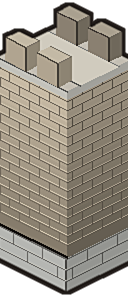
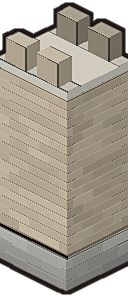
城墙/城门贴图精修美化：砖块逐块确定性明度抖动填色（锚定绝对格栅跨段同相位）、条石基座贴地环境光遮蔽、墙面确定性风雨渍、垛口顶缘倒角高光、宽门楼城台风雨渍；新增 modv2 本地构建脚本 _local_build.py（临时目录补丁路径重出贴图）；贴图尺寸/锚点与旧版完全一致，回归 67/67

diff --git a/shanhai/assets_src/tools/modv2/citybuild.py b/shanhai/assets_src/tools/modv2/citybuild.py
@@ -129,42 +129,95 @@ def iso_box(d, u0, u1, v0, v1, z0, z1, cf, cs, ct, edge=True):
         d.line([S(u1, v0, z1), S(u1, v1, z1)], fill=mix(ct, DARK, 0.42), width=1)
 
 
-def brick_v(d, u0, u1, v, z0, z1, col, ch=9.0, cw=0.62, seed=0):
-    """v=常数 立面的砖缝：水平砖行 + 错缝竖缝。
-    竖缝落在绝对格栅上（锚在 U0），因此任意长度切段后拼接，砖缝相位不变。"""
+def _brick_tone(col, row, ua, ao, ao_h):
+    """单砖确定性色调：明度抖动 + 可选贴地环境光遮蔽。锚定绝对格栅，跨段同相位。"""
+    h = ((row * 73856093) ^ (int(round(ua * 31)) * 19349663)) & 0xFFFFFFFF
+    t = (h % 997) / 997.0
+    bc = mix(mix(col, DARK, 0.085 * t), CREAM, 0.085 * (1.0 - t))
+    if ao_h > 0:
+        bc = mix(bc, DARK, 0.20 * max(0.0, 1.0 - min(ao, ao_h) / ao_h))
+    return bc
+
+
+def brick_v(d, u0, u1, v, z0, z1, col, ch=9.0, cw=0.62, seed=0, ao_h=0.0):
+    """v=常数 立面砖：逐砖填色（确定性抖动）+ 错缝 + 砖缝阴影/高光。
+    竖缝落在绝对格栅上（锚在 U0），任意长度切段后拼接，砖缝与抖动相位不变。
+    ao_h>0 时向 z0 方向叠加环境光遮蔽（越贴地越暗）。"""
     dark = mix(col, DARK, 0.42)
     light = mix(col, CREAM, 0.26)
-    k = 0
+    row = int(math.floor(z0 / ch))
     z = z0 + ch
     while z < z1:
+        za = max(z - ch, z0)
+        zb = min(z, z1)
+        off = (cw / 2.0) if (row + seed) % 2 else 0.0
+        m0 = int(math.floor((u0 - off - U0) / cw)) + 1
+        ua = u0
+        u = U0 + m0 * cw + off
+        while ua < u1 - 1e-6:
+            ub = min(u, u1)
+            bc = _brick_tone(col, row, ua, za, ao_h)
+            if ub - ua > 0.02 and zb - za > 0.5:
+                quad(d, S(ua, v, za), eu(ub - ua), ez(zb - za), bc)
+                d.line([S(ua, v, zb - 0.9), S(ub, v, zb - 0.9)],
+                       fill=mix(bc, CREAM, 0.22), width=1)
+            ua = ub
+            u += cw
         d.line([S(u0, v, z), S(u1, v, z)], fill=dark, width=1)
-        d.line([S(u0, v, z + 1.2), S(u1, v, z + 1.2)], fill=light, width=1)
-        off = (cw / 2.0) if (k + seed) % 2 else 0.0
-        m = int(math.floor((u0 - off - U0) / cw)) + 1
-        u = U0 + m * cw + off
+        u = U0 + m0 * cw + off
         while u < u1:
             d.line([S(u, v, z), S(u, v, z + ch)], fill=dark, width=1)
             u += cw
-        k += 1
+        d.line([S(u0, v, z + 1.2), S(u1, v, z + 1.2)], fill=light, width=1)
+        row += 1
         z += ch
 
 
-def brick_u(d, u, v0, v1, z0, z1, col, ch=9.0, cw=0.62, seed=0):
+def brick_u(d, u, v0, v1, z0, z1, col, ch=9.0, cw=0.62, seed=0, ao_h=0.0):
+    """u=常数 侧脸砖：与 brick_v 同一套逐砖填色/抖动/AO。"""
     dark = mix(col, DARK, 0.46)
     light = mix(col, CREAM, 0.14)
-    k = 0
+    row = int(math.floor(z0 / ch))
     z = z0 + ch
     while z < z1:
+        za = max(z - ch, z0)
+        zb = min(z, z1)
+        off = (cw / 2.0) if (row + seed) % 2 else 0.0
+        m0 = int(math.floor((v0 - off - V0) / cw)) + 1
+        va = v0
+        v = V0 + m0 * cw + off
+        while va < v1 - 1e-6:
+            vb = min(v, v1)
+            bc = _brick_tone(col, row, va, za, ao_h)
+            if vb - va > 0.02 and zb - za > 0.5:
+                quad(d, S(u, va, za), ev(vb - va), ez(zb - za), bc)
+                d.line([S(u, va, zb - 0.9), S(u, vb, zb - 0.9)],
+                       fill=mix(bc, CREAM, 0.16), width=1)
+            va = vb
+            v += cw
         d.line([S(u, v0, z), S(u, v1, z)], fill=dark, width=1)
-        d.line([S(u, v0, z + 1.2), S(u, v1, z + 1.2)], fill=light, width=1)
-        off = (cw / 2.0) if (k + seed) % 2 else 0.0
-        m = int(math.floor((v0 - off - V0) / cw)) + 1
-        v = V0 + m * cw + off
+        v = V0 + m0 * cw + off
         while v < v1:
             d.line([S(u, v, z), S(u, v, z + ch)], fill=dark, width=1)
             v += cw
-        k += 1
+        d.line([S(u, v0, z + 1.2), S(u, v1, z + 1.2)], fill=light, width=1)
+        row += 1
         z += ch
+
+
+def weather_streaks(d, u0, u1, v, z_top, z_bot, col, seed=0, n=5):
+    """确定性竖向风雨渍：细窄暗带自上而下、长短错落。锚定绝对 u，跨段同相位。"""
+    for k in range(n):
+        h = ((seed * 2654435761) ^ (k * 40503 + 97)) & 0xFFFFFFFF
+        t0 = (h % 997) / 997.0
+        t1 = ((h >> 10) % 997) / 997.0
+        ua = u0 + (u1 - u0) * ((k + 0.15 + 0.7 * t0) / n)
+        wu = min(0.14 + 0.12 * t1, max(0.06, (u1 - u0) / n * 0.8), u1 - ua)
+        zt = z_top - (z_top - z_bot) * (0.08 + 0.10 * t0)
+        zb2 = max(zt - (z_top - z_bot) * (0.30 + 0.42 * t1), z_bot)
+        if zb2 - zt < 4 or u1 - ua < 0.04:
+            continue
+        quad(d, S(ua, v, zb2), eu(wu), ez(zt - zb2), mix(col, DARK, 0.075))
 
 
 def vgrad(d, u0, u1, v, z0, z1, c_bot, c_top, steps=14):
@@ -202,8 +255,12 @@ def merlons(d, axis, a0, a1, c0, c1, z0, hgt, wh=None, inner=False):
         b = a + w
         if axis == 'u':
             iso_box(d, a, b, c0, c1, z0, z0 + hgt, cf, cs, mix(cf, CREAM, 0.30))
+            d.line([S(a, c1, z0 + hgt), S(b, c1, z0 + hgt)],
+                   fill=mix(cf, CREAM, 0.42), width=1)
         else:
             iso_box(d, c0, c1, a, b, z0, z0 + hgt, cf, cs, mix(cf, CREAM, 0.30))
+            d.line([S(c0, b, z0 + hgt), S(c1, b, z0 + hgt)],
+                   fill=mix(cf, CREAM, 0.42), width=1)
 
 
 # ---------------------------------------------------------------- 直段
@@ -224,11 +281,11 @@ def build_wall(n, axis, th=2):
     # 基座
     iso_box(d, b[0], b[1], b[2], b[3], 0, BASE, STONE, STONE_S, STONE_T)
     if axis == 'u':
-        brick_v(d, b[0], b[1], b[3], 0, BASE, STONE, ch=11.0, cw=0.92)
-        brick_u(d, b[1], b[2], b[3], 0, BASE, STONE_S, ch=11.0, cw=0.92)
+        brick_v(d, b[0], b[1], b[3], 0, BASE, STONE, ch=11.0, cw=0.92, ao_h=BASE)
+        brick_u(d, b[1], b[2], b[3], 0, BASE, STONE_S, ch=11.0, cw=0.92, ao_h=BASE)
     else:
-        brick_v(d, b[0], b[1], b[3], 0, BASE, STONE, ch=11.0, cw=0.92, seed=1)
-        brick_u(d, b[1], b[2], b[3], 0, BASE, STONE_S, ch=11.0, cw=0.92, seed=1)
+        brick_v(d, b[0], b[1], b[3], 0, BASE, STONE, ch=11.0, cw=0.92, seed=1, ao_h=BASE)
+        brick_u(d, b[1], b[2], b[3], 0, BASE, STONE_S, ch=11.0, cw=0.92, seed=1, ao_h=BASE)
     d.line([S(b[0], b[3], BASE), S(b[1], b[3], BASE)], fill=mix(STONE, DARK, 0.5), width=2)
     # 墙身
     iso_box(d, eu0, eu1, ev0, ev1, BASE, WALL_TOP, WALL_C, WALL_S, WALK_C)
@@ -243,6 +300,8 @@ def build_wall(n, axis, th=2):
     else:
         brick_v(d, eu0, eu1, ev1, BASE + 3, WALL_TOP - 8, WALL_C, seed=2)
         brick_u(d, eu1, ev0, ev1, BASE + 3, WALL_TOP - 8, WALL_S, seed=3)
+    # 风雨渍：确定性竖向污痕，让墙面有岁月感
+    weather_streaks(d, eu0, eu1, ev1, WALL_TOP - 10, BASE + 10, WALL_C, seed=7 if axis == 'u' else 11)
     # 注：直段的 u=u1 面在拼接后是「接缝」，不是外棱 —— 这里不画转角亮棱/暗倒角，
     # 否则每段端头都会在接缝处留一道亮（或暗）竖线。转角厚度由 city_wall_corner 承担。
     d.line([S(eu0, ev1, BASE), S(eu1, ev1, BASE)], fill=(30, 27, 24), width=3)
@@ -290,8 +349,8 @@ def build_corner(th=2):
     u0, u1, v0, v1 = U0, U0 + th, V0, V0 + th
     L = 0.06
     iso_box(d, u0 - L, u1 + L, v0 - L, v1 + L, 0, BASE, STONE, STONE_S, STONE_T)
-    brick_v(d, u0 - L, u1 + L, v1 + L, 0, BASE, STONE, ch=11.0, cw=0.92, seed=2)
-    brick_u(d, u1 + L, v0 - L, v1 + L, 0, BASE, STONE_S, ch=11.0, cw=0.92, seed=2)
+    brick_v(d, u0 - L, u1 + L, v1 + L, 0, BASE, STONE, ch=11.0, cw=0.92, seed=2, ao_h=BASE)
+    brick_u(d, u1 + L, v0 - L, v1 + L, 0, BASE, STONE_S, ch=11.0, cw=0.92, seed=2, ao_h=BASE)
     CC = mix(WALL_C, CREAM, 0.12)
     CS = mix(WALL_S, CREAM, 0.05)
     # u 两端出血 BL 再裁回名义范围：否则 iso_box 在 u=u1 画的竖棱线、以及轮廓描边，
@@ -514,8 +573,8 @@ def build_gate():
     bu0, bu1 = u0 - B, u1 + B
     # 1 条石基座（与城台齐平，便于券门贯通到地面）
     iso_box(d, bu0, bu1, v0, v1, 0, 30, STONE, STONE_S, STONE_T)
-    brick_v(d, bu0, bu1, v1, 0, 30, STONE, ch=11.0, cw=0.92, seed=5)
-    brick_u(d, bu1, v0, v1, 0, 30, STONE_S, ch=11.0, cw=0.92, seed=5)
+    brick_v(d, bu0, bu1, v1, 0, 30, STONE, ch=11.0, cw=0.92, seed=5, ao_h=30)
+    brick_u(d, bu1, v0, v1, 0, 30, STONE_S, ch=11.0, cw=0.92, seed=5, ao_h=30)
     # 2 城台（墩台）
     iso_box(d, bu0, bu1, v0, v1, 30, GP_TOP, GATE_C, GATE_S, GATE_T)
     brick_v(d, bu0, bu1, v1, 36, GP_TOP - 12, GATE_C, ch=10.0, cw=0.54)

diff --git a/shanhai/assets_src/tools/modv2/_local_build.py b/shanhai/assets_src/tools/modv2/_local_build.py
@@ -1,0 +1,75 @@
+"""本地构建脚本：拷贝 modv2 到临时目录、修补路径、重出城墙上城门贴图。
+用法：python _local_build.py
+"""
+import os
+import shutil
+import subprocess
+import sys
+import json
+
+REPO = os.path.dirname(os.path.dirname(os.path.dirname(os.path.dirname(os.path.abspath(__file__)))))  # shanhai/
+MODV2 = os.path.dirname(os.path.abspath(__file__))
+BUILD = os.path.join(os.environ.get('TEMP', '/tmp'), 'yj_build')
+ISO_OUT = os.path.join(REPO, 'public', 'assets', 'art', 'iso')
+
+TARGETS = [
+    'city_wall_u6', 'city_wall_u2', 'city_wall_v6', 'city_wall_v2',
+    'city_wall_corner', 'city_gate_tower', 'city_gate_wide', 'city_gate_wide_v',
+]
+
+
+def main():
+    os.makedirs(BUILD, exist_ok=True)
+    os.makedirs(os.path.join(BUILD, 'assets_v2', 'modules'), exist_ok=True)
+    os.makedirs(os.path.join(BUILD, 'assets_v2', 'preview'), exist_ok=True)
+    # 拷贝脚本
+    for f in os.listdir(MODV2):
+        if f.endswith('.py'):
+            shutil.copy(os.path.join(MODV2, f), os.path.join(BUILD, f))
+    # 修补 ROOT / OUT
+    cb = open(os.path.join(BUILD, 'citybuild.py'), encoding='utf-8').read()
+    cb = cb.replace(r"ROOT = r'D:\workspace\dahuayou_web'",
+                    'ROOT = r' + repr(BUILD))
+    open(os.path.join(BUILD, 'citybuild.py'), 'w', encoding='utf-8').write(cb)
+    wg = open(os.path.join(BUILD, 'widegate.py'), encoding='utf-8').read()
+    wg = wg.replace(r"OUT = r'D:\workspace\game\xiyou01\shanhai\public\assets\art\iso'",
+                    'OUT = r' + repr(ISO_OUT))
+    open(os.path.join(BUILD, 'widegate.py'), 'w', encoding='utf-8').write(wg)
+
+    # 记录旧尺寸
+    old = {}
+    for t in TARGETS:
+        p = os.path.join(ISO_OUT, t + '.png')
+        old[t] = os.path.getsize(p) if os.path.exists(p) else 0
+
+    # 构建（citybuild 出直段/角台/旧门楼，widegate 出宽门）
+    code = 'import citybuild; citybuild.run_walls(); citybuild.run_gate(); import widegate'
+    r = subprocess.run([sys.executable, '-c', code], cwd=BUILD,
+                       capture_output=True, text=True)
+    print(r.stdout[-3000:] if r.stdout else '')
+    if r.returncode != 0:
+        print(r.stderr[-4000:])
+        sys.exit(1)
+
+    # 把直段/角台/旧门楼从 modules 拷到 iso 目录（宽门已直出）
+    mod_dir = os.path.join(BUILD, 'assets_v2', 'modules')
+    copied = []
+    for t in TARGETS:
+        src = os.path.join(mod_dir, t + '.png')
+        dst = os.path.join(ISO_OUT, t + '.png')
+        if os.path.exists(src):
+            shutil.copy(src, dst)
+            copied.append(t)
+    # 尺寸校验
+    from PIL import Image
+    ok = True
+    for t in TARGETS:
+        p = os.path.join(ISO_OUT, t + '.png')
+        if os.path.exists(p):
+            im = Image.open(p)
+            print(f'{t}: {im.size[0]}x{im.size[1]}  bytes {old[t]} -> {os.path.getsize(p)}')
+    print('copied:', copied)
+
+
+if __name__ == '__main__':
+    main()

diff --git a/shanhai/assets_src/tools/modv2/widegate.py b/shanhai/assets_src/tools/modv2/widegate.py
@@ -41,12 +41,13 @@ def _podium(d, bu0, bu1, v0, v1, front_axis):
     B = cb.BL
     # 1 条石基座（与城台齐平，券门贯通到地面）
     cb.iso_box(d, bu0, bu1, v0, v1, 0, 30, cb.STONE, cb.STONE_S, cb.STONE_T)
-    cb.brick_v(d, bu0, bu1, v1, 0, 30, cb.STONE, ch=11.0, cw=0.92, seed=5)
-    cb.brick_u(d, bu1, v0, v1, 0, 30, cb.STONE_S, ch=11.0, cw=0.92, seed=5)
+    cb.brick_v(d, bu0, bu1, v1, 0, 30, cb.STONE, ch=11.0, cw=0.92, seed=5, ao_h=30)
+    cb.brick_u(d, bu1, v0, v1, 0, 30, cb.STONE_S, ch=11.0, cw=0.92, seed=5, ao_h=30)
     # 2 城台（墩台）
     cb.iso_box(d, bu0, bu1, v0, v1, 30, cb.GP_TOP, cb.GATE_C, cb.GATE_S, cb.GATE_T)
     cb.brick_v(d, bu0, bu1, v1, 36, cb.GP_TOP - 12, cb.GATE_C, ch=10.0, cw=0.54)
     cb.brick_u(d, bu1, v0, v1, 36, cb.GP_TOP - 12, cb.GATE_S, ch=10.0, cw=0.54, seed=1)
+    cb.weather_streaks(d, bu0, bu1, v1, cb.GP_TOP - 16, 42, cb.GATE_C, seed=13)
     # 3 压顶石带 + 台面
     cb.quad(d, cb.S(bu0, v1, cb.GP_TOP - 9), cb.eu(bu1 - bu0), cb.ez(9), cb.STONE_T)
     cb.quad(d, cb.S(bu1, v0, cb.GP_TOP - 9), cb.ev(v1 - v0), cb.ez(9), cb.mix(cb.STONE_T, cb.DARK, 0.18))
